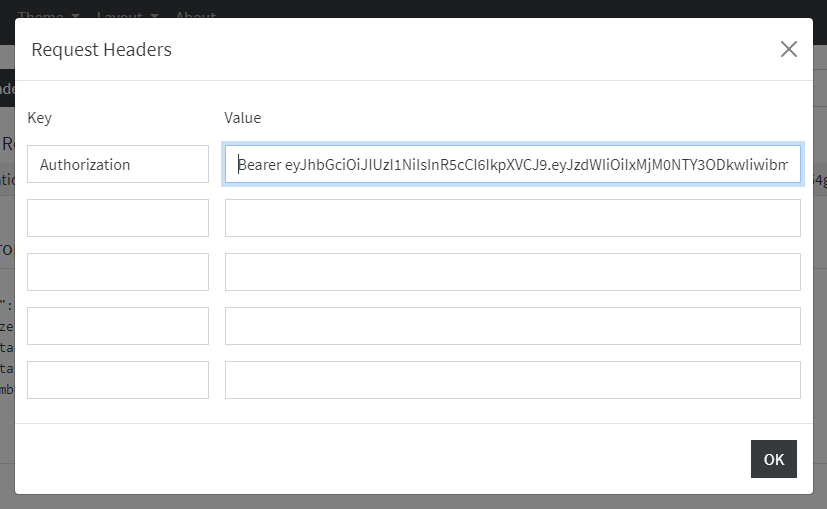
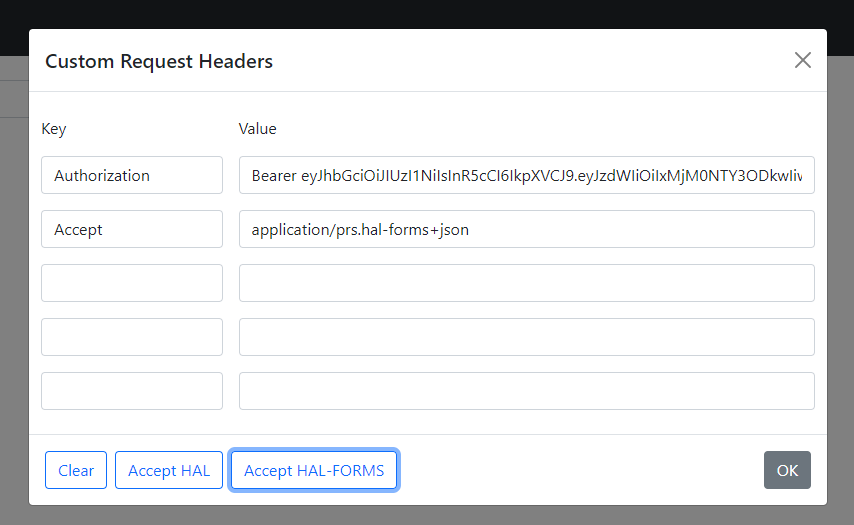
feat: add convenience buttons to the Custom Request Headers dialog

Changed region(s): [[0.0, 0.0295, 1.0, 0.9725], [0.2418, 0.501, 0.3023, 0.5305]]

diff --git a/src/app/request/request.component.spec.ts b/src/app/request/request.component.spec.ts
@@ -858,4 +858,58 @@ describe('RequestComponent', () => {
     expect((halFormsTemplates._templates.withOptionsAndMalformedInline2.properties[0] as any).options).toBeUndefined();
   });
 
+  it('should clear custom request headers', () => {
+    component.tempRequestHeaders = [];
+    component.tempRequestHeaders.push(new RequestHeader('', ''));
+
+    component.clearRequestHeaders();
+
+    expect(component.tempRequestHeaders.length).toBe(5);
+    for (let i = 0; i < 5; i++) {
+      expect(component.tempRequestHeaders[i].key).toBe('');
+      expect(component.tempRequestHeaders[i].value).toBe('');
+    }
+  });
+
+  it('should set custom accept request headers on empty request headers', () => {
+    component.tempRequestHeaders = [];
+    for (let i = 0; i < 5; i++) {
+      component.tempRequestHeaders.push(new RequestHeader('', ''));
+    }
+
+    component.setAcceptRequestHeader('x');
+
+    expect(component.tempRequestHeaders[0].key).toBe('Accept');
+    expect(component.tempRequestHeaders[0].value).toBe('x');
+  });
+
+  it('should set custom accept request headers on non empty request headers', () => {
+    component.tempRequestHeaders = [];
+    for (let i = 0; i < 5; i++) {
+      if (i < 2) {
+        component.tempRequestHeaders.push(new RequestHeader('key' + i, 'y'));
+      } else {
+        component.tempRequestHeaders.push(new RequestHeader('', ''));
+      }
+    }
+
+    component.setAcceptRequestHeader('x');
+
+    expect(component.tempRequestHeaders[2].key).toBe('Accept');
+    expect(component.tempRequestHeaders[2].value).toBe('x');
+  });
+
+  it('should set custom accept request headers on existing accept request header', () => {
+    component.tempRequestHeaders = [];
+    for (let i = 0; i < 5; i++) {
+      component.tempRequestHeaders.push(new RequestHeader('', ''));
+    }
+    component.tempRequestHeaders[0].key = 'accept';
+
+    component.setAcceptRequestHeader('x');
+
+    expect(component.tempRequestHeaders[0].key).toBe('accept');
+    expect(component.tempRequestHeaders[0].value).toBe('x');
+  });
+
 });

diff --git a/src/app/request/request.component.ts b/src/app/request/request.component.ts
@@ -262,9 +262,42 @@ export class RequestComponent implements OnInit {
         this.requestHeaders.push(new RequestHeader(key, value));
       }
     }
+    this.processRequestHeaders();
+  }
+
+  clearRequestHeaders() {
+    this.tempRequestHeaders = [];
+    for (let i = 0; i < 5; i++) {
+      this.tempRequestHeaders.push(new RequestHeader('', ''));
+    }
+
+    this.processRequestHeaders();
+  }
+
+  private processRequestHeaders() {
     this.requestService.setCustomHeaders(this.requestHeaders);
     this.hasCustomRequestHeaders = this.requestHeaders.length > 0;
     this.appService.setCustomRequestHeaders(this.requestHeaders);
+  }
+
+  setAcceptRequestHeader(value: string) {
+    let acceptHeaderSet = false;
+    for (let i = 0; i < 5; i++) {
+      if (this.tempRequestHeaders[i].key.toLowerCase() === 'accept') {
+        this.tempRequestHeaders[i].value = value;
+        acceptHeaderSet = true;
+        break;
+      }
+    }
+    if (!acceptHeaderSet) {
+      for (let i = 0; i < 5; i++) {
+        if (this.tempRequestHeaders[i].key === '') {
+          this.tempRequestHeaders[i].key = 'Accept';
+          this.tempRequestHeaders[i].value = value;
+          break;
+        }
+      }
+    }
   }
 
   getTooltip(key: string): string {

diff --git a/src/app/request/request.component.html b/src/app/request/request.component.html
@@ -202,7 +202,7 @@
   <div class="modal-dialog modal-lg" role="document">
     <div class="modal-content">
       <div class="modal-header">
-        <h5 class="modal-title" id="requestHeadersModalLabel">Request Headers</h5>
+        <h5 class="modal-title" id="requestHeadersModalLabel">Custom Request Headers</h5>
         <button type="button" class="btn-close" data-bs-dismiss="modal" aria-label="Close"></button>
       </div>
       <div class="modal-body">
@@ -231,6 +231,15 @@
         </form>
       </div>
       <div class="modal-footer">
+        <div class="me-auto">
+          <button type="button" class="btn btn-outline-primary me-2" (click)="clearRequestHeaders()">Clear</button>
+          <button type="button" class="btn btn-outline-primary me-2"
+                  (click)="setAcceptRequestHeader('application/hal+json')">Accept HAL
+          </button>
+          <button type="button" class="btn btn-outline-primary"
+                  (click)="setAcceptRequestHeader('application/prs.hal-forms+json')">Accept HAL-FORMS
+          </button>
+        </div>
         <button type="button" class="btn btn-secondary" data-bs-dismiss="modal" (click)="updateRequestHeaders()">OK
         </button>
       </div>
